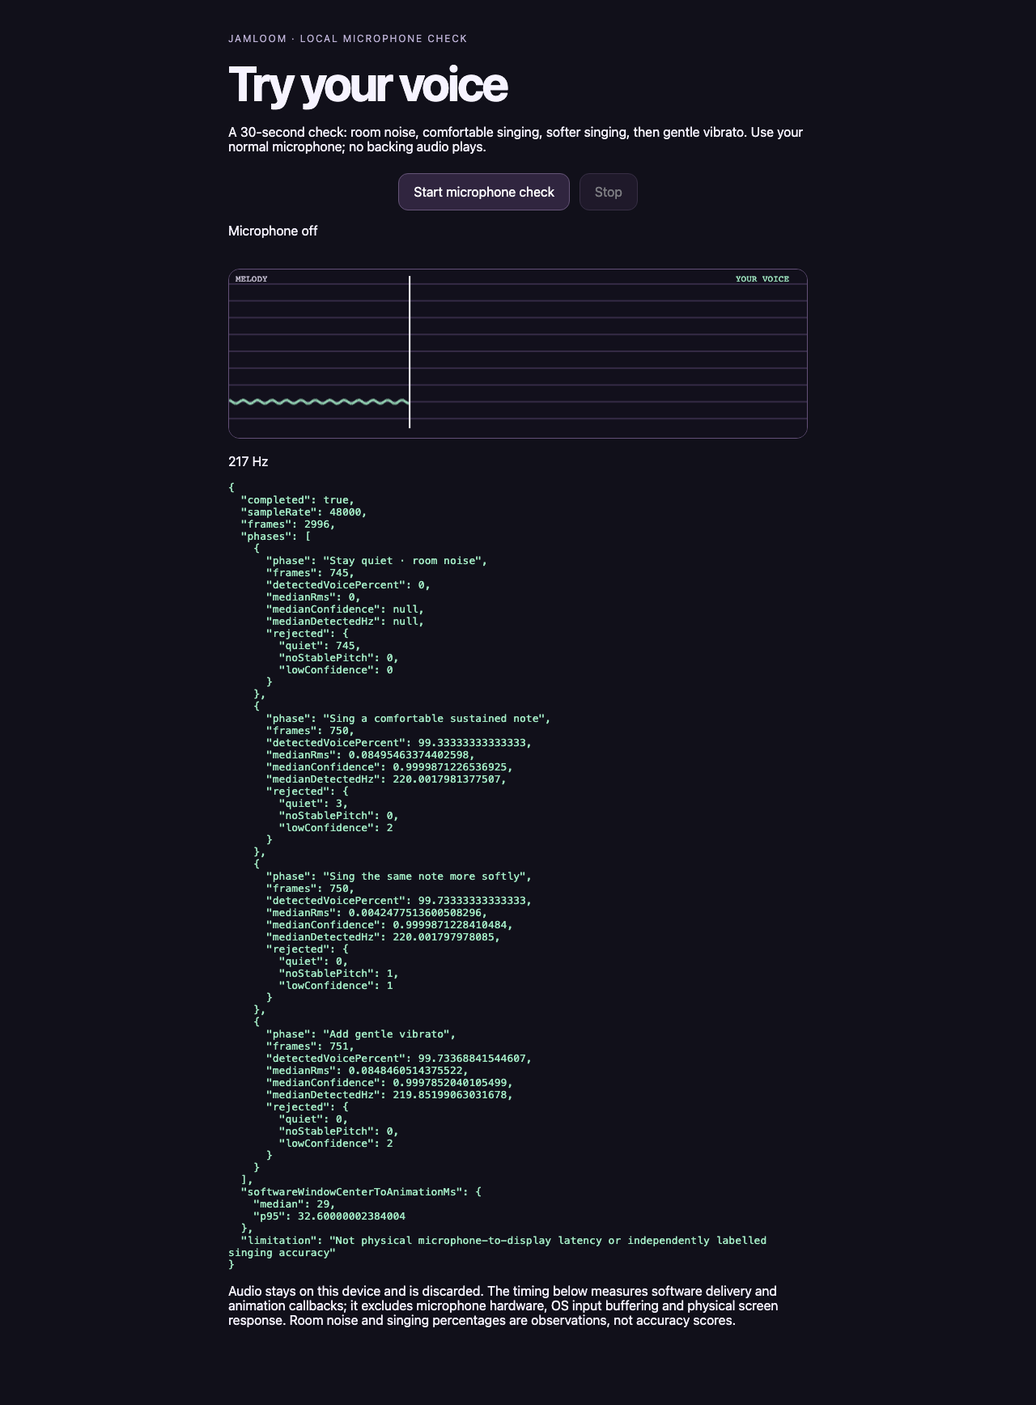
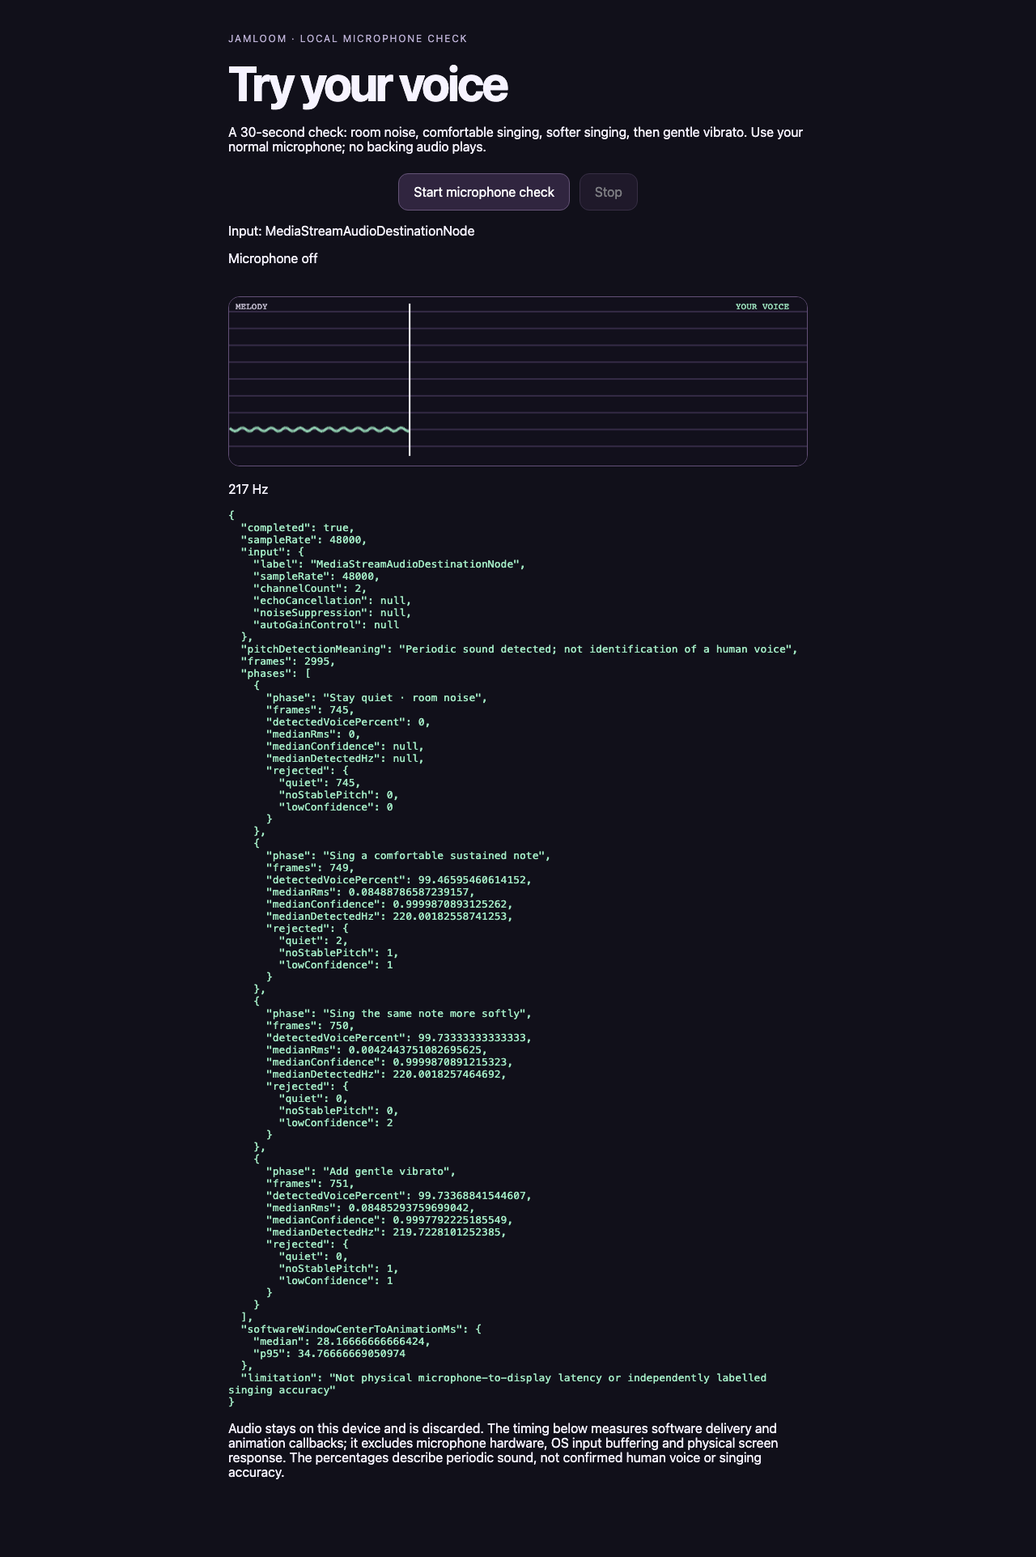
Record musical quality feedback and clarify microphone diagnostics

Changed region(s): [[0.2188, 0.0, 0.7812, 0.9643], [0.4688, 0.3422, 0.5, 0.3733]]

diff --git a/scripts/fixtures/singing-mic-check.js b/scripts/fixtures/singing-mic-check.js
@@ -3,7 +3,7 @@ import {drawSingingChart} from './singing-chart.js';
 const $=id=>document.getElementById(id),phases=['Stay quiet · room noise','Sing a comfortable sustained note','Sing the same note more softly','Add gentle vibrato'];
 let context,run=null,token=0,raf=0;
 const percentile=(values,p)=>values.length?[...values].sort((a,b)=>a-b)[Math.min(values.length-1,Math.floor(values.length*p))]:null;
-function stop(){token++;const old=run;run=null;cancelAnimationFrame(raf);if(old){old.stream.getTracks().forEach(t=>t.stop());old.input.disconnect();old.capture.port.postMessage('stop');old.capture.port.close();old.capture.disconnect();old.mute.disconnect();const r={completed:old.elapsed>=30,sampleRate:context.sampleRate,frames:old.frames,phases:phases.map((phase,i)=>({phase,frames:old.rows[i].length,detectedVoicePercent:old.rows[i].length?100*old.rows[i].filter(x=>x.valid).length/old.rows[i].length:null,medianRms:percentile(old.rows[i].map(x=>x.rms),.5),medianConfidence:percentile(old.rows[i].filter(x=>x.confidence!==null).map(x=>x.confidence),.5),medianDetectedHz:percentile(old.rows[i].filter(x=>x.valid).map(x=>x.hz),.5),rejected:{quiet:old.rows[i].filter(x=>!x.valid&&x.rms<.003).length,noStablePitch:old.rows[i].filter(x=>!x.valid&&x.rms>=.003&&x.confidence===null).length,lowConfidence:old.rows[i].filter(x=>!x.valid&&x.confidence!==null).length}})),softwareWindowCenterToAnimationMs:{median:percentile(old.delays,.5),p95:percentile(old.delays,.95)},limitation:'Not physical microphone-to-display latency or independently labelled singing accuracy'};$('result').textContent=JSON.stringify(r,null,2);window.jamloomMicCheckResult=r;}if(context?.state==='running')void context.suspend();$('start').disabled=false;$('stop').disabled=true;$('phase').textContent='Microphone off';}
+function stop(){token++;const old=run;run=null;cancelAnimationFrame(raf);if(old){old.stream.getTracks().forEach(t=>t.stop());old.input.disconnect();old.capture.port.postMessage('stop');old.capture.port.close();old.capture.disconnect();old.mute.disconnect();const r={completed:old.elapsed>=30,sampleRate:context.sampleRate,input:old.inputInfo,pitchDetectionMeaning:'Periodic sound detected; not identification of a human voice',frames:old.frames,phases:phases.map((phase,i)=>({phase,frames:old.rows[i].length,detectedVoicePercent:old.rows[i].length?100*old.rows[i].filter(x=>x.valid).length/old.rows[i].length:null,medianRms:percentile(old.rows[i].map(x=>x.rms),.5),medianConfidence:percentile(old.rows[i].filter(x=>x.confidence!==null).map(x=>x.confidence),.5),medianDetectedHz:percentile(old.rows[i].filter(x=>x.valid).map(x=>x.hz),.5),rejected:{quiet:old.rows[i].filter(x=>!x.valid&&x.rms<.003).length,noStablePitch:old.rows[i].filter(x=>!x.valid&&x.rms>=.003&&x.confidence===null).length,lowConfidence:old.rows[i].filter(x=>!x.valid&&x.confidence!==null).length}})),softwareWindowCenterToAnimationMs:{median:percentile(old.delays,.5),p95:percentile(old.delays,.95)},limitation:'Not physical microphone-to-display latency or independently labelled singing accuracy'};$('result').textContent=JSON.stringify(r,null,2);window.jamloomMicCheckResult=r;}if(context?.state==='running')void context.suspend();$('start').disabled=false;$('stop').disabled=true;$('phase').textContent='Microphone off';}
 function draw(){const r=run;if(!r)return;r.elapsed=context.currentTime-r.began;const phase=Math.min(3,Math.floor(r.elapsed/7.5));$('phase').textContent=phases[phase]+' · '+Math.max(0,Math.ceil(30-r.elapsed))+'s';if(r.pending){r.delays.push(r.pending.age+performance.now()-r.pending.at);r.pending=null;}$('pitch').textContent=r.pitch?Math.round(r.pitch.frequency)+' Hz':'Listening for a clear note';drawSingingChart($('live-chart'),[],r.elapsed,r.trace,57);if(r.elapsed>=30)stop();else raf=requestAnimationFrame(draw);}
 $('stop').onclick=stop;
 $('start').onclick=async()=>{
@@ -13,7 +13,8 @@ $('start').onclick=async()=>{
   if(attempt!==token){stream.getTracks().forEach(t=>t.stop());return;}
   await context.audioWorklet.addModule('singing-capture-worklet.js');if(attempt!==token){stream.getTracks().forEach(t=>t.stop());return;}
   const capture=new AudioWorkletNode(context,'jamloom-singing-capture'),input=context.createMediaStreamSource(stream),mute=context.createGain();mute.gain.value=0;input.connect(capture);capture.connect(mute);mute.connect(context.destination);
-  const r=run={stream,capture,input,mute,began:context.currentTime,elapsed:0,frames:0,rows:[[],[],[],[]],trace:[],delays:[],pending:null,pitch:null};
+  const track=stream.getAudioTracks()[0],settings=track.getSettings();const inputInfo={label:track.label,sampleRate:settings.sampleRate??null,channelCount:settings.channelCount??null,echoCancellation:settings.echoCancellation??null,noiseSuppression:settings.noiseSuppression??null,autoGainControl:settings.autoGainControl??null};$('input').textContent='Input: '+(track.label||'Browser-selected microphone');
+  const r=run={stream,capture,input,mute,inputInfo,began:context.currentTime,elapsed:0,frames:0,rows:[[],[],[],[]],trace:[],delays:[],pending:null,pitch:null};
   capture.port.onmessage=({data})=>{if(run!==r)return;try{const at=context.currentTime-r.began;if(at<0||at>30)return;const started=performance.now(),received=context.currentTime,pitch=detectPitch(data.samples,data.rate),valid=isSingingPitch(pitch);r.frames++;r.rows[Math.min(3,Math.floor(at/7.5))].push({valid,rms:Math.sqrt(data.samples.reduce((s,n)=>s+n*n,0)/data.samples.length),confidence:pitch?.confidence??null,hz:pitch?.frequency??null});r.pitch=valid?pitch:null;r.pending={at:started,age:1000*(received-(data.frame-data.samples.length/2)/data.rate)};r.trace.push({at,note:valid?69+12*Math.log2(pitch.frequency/440):null,good:valid});if(r.trace.length>1200)r.trace.splice(0,600);}finally{if(run===r)capture.port.postMessage('ack');}};
   capture.onprocessorerror=()=>{stop();$('phase').textContent='Microphone analysis stopped. Try again.';};stream.getTracks().forEach(t=>t.addEventListener('ended',()=>{if(run===r)stop();},{once:true}));$('stop').disabled=false;draw();
  }catch(error){stream?.getTracks().forEach(t=>t.stop());if(attempt===token){stop();$('phase').textContent=error.name==='NotAllowedError'?'Allow microphone access to run this check.':error.message;}}

diff --git a/scripts/fixtures/singing-mic-check.html b/scripts/fixtures/singing-mic-check.html
@@ -1,1 +1,1 @@
-<!doctype html><html lang="en"><head><meta charset="utf-8"><meta name="viewport" content="width=device-width,initial-scale=1"><title>Microphone check · Jamloom</title><link rel="stylesheet" href="singing.css"><script type="module" src="mic-check.js"></script></head><body><main><p class="eyebrow">Jamloom · Local microphone check</p><h1>Try your voice</h1><p>A 30-second check: room noise, comfortable singing, softer singing, then gentle vibrato. Use your normal microphone; no backing audio plays.</p><div class="actions"><button id="start">Start microphone check</button><button id="stop" disabled>Stop</button></div><p id="phase" role="status">Microphone off</p><canvas id="live-chart" aria-label="Live pitch trace"></canvas><p id="pitch">—</p><pre id="result" style="white-space:pre-wrap"></pre><p>Audio stays on this device and is discarded. The timing below measures software delivery and animation callbacks; it excludes microphone hardware, OS input buffering and physical screen response. Room noise and singing percentages are observations, not accuracy scores.</p></main></body></html>
+<!doctype html><html lang="en"><head><meta charset="utf-8"><meta name="viewport" content="width=device-width,initial-scale=1"><title>Microphone check · Jamloom</title><link rel="stylesheet" href="singing.css"><script type="module" src="mic-check.js"></script></head><body><main><p class="eyebrow">Jamloom · Local microphone check</p><h1>Try your voice</h1><p>A 30-second check: room noise, comfortable singing, softer singing, then gentle vibrato. Use your normal microphone; no backing audio plays.</p><div class="actions"><button id="start">Start microphone check</button><button id="stop" disabled>Stop</button></div><p id="input">Input is shown after microphone permission.</p><p id="phase" role="status">Microphone off</p><canvas id="live-chart" aria-label="Live pitch trace"></canvas><p id="pitch">—</p><pre id="result" style="white-space:pre-wrap"></pre><p>Audio stays on this device and is discarded. The timing below measures software delivery and animation callbacks; it excludes microphone hardware, OS input buffering and physical screen response. The percentages describe periodic sound, not confirmed human voice or singing accuracy.</p></main></body></html>

diff --git a/docs/CONTINUITY_FOLLOWTHROUGH.md b/docs/CONTINUITY_FOLLOWTHROUGH.md
@@ -54,3 +54,26 @@ ACE-Step 1.5 and the MIT singing detector are retained. Re-ran the existing benc
 The approved Tency enquiry was already sent. No supplier reply or assets are available in this workspace; no mailbox connector is available to verify the inbox. This is not a claim that the supplier has not replied. [Exact recordings, permissions and delivery requirements](SINGING_POPULAR_SONGS.md). The four-minute original rehearsal already exercises streaming, lyric timing, phrase grading, seek/retry and stop; the first popular lesson must use the actual authorized recording and melody data once supplied.
 
 [Release acceptance checklist](RELEASE_ACCEPTANCE.md) separates implemented features, listening, hardware, hosted and publication gates. The owner still holds publication. No paid license, App Store submission or public AI DJ activation occurred.
+
+## Owner review and next musical target — 2026-10-26
+
+**PARTIAL improvement; professional-quality target not accepted.** The owner says the four handoffs are better but still below real DJ performance, and wants AI to use coordinated musical control to exceed that benchmark. This is feedback on the retained before/after set, not a rating of the fresh twelve-track qualification. [Exact feedback](evidence/continuity-followthrough-20261026/owner-continuity-feedback.json).
+
+The present capacity result proves reliable delivery, not the requested musical result. `AIDJPlayer` has two stereo decks; the flow study generates each source independently from recipe/seed inputs. The planner can align measured beats, choose overlap, exchange bass and avoid quiet sections. It cannot independently continue the outgoing drums while replacing its bass or write the incoming melody to answer an existing motif.
+
+The next creative experiment should therefore compare one coherent 3–5-minute original performance against the accepted overlap baseline:
+
+1. Plan shared tempo, tonal center, groove, motif and phrase-level energy before generating the next section. Define which musical idea continues and which changes. A shared caption or BPM alone is not evidence of coherent harmony/arrangement.
+2. Test separate control of drums, bass, musical parts and brief vocals on original Jamloom material. Reuse existing mixer/recording timing and original stem utilities. Existing `separate_singer.py` is a research tool; check its precise checkpoint terms and separation bleed before any runtime adoption. Native original stems are preferable when available. Do not add another audio clock or assume the two-deck player already supports independent stems.
+3. Coordinate phrase-aligned percussion handoffs, complementary bass entries, restrained vocal answers and purposeful build/drop/release. Keep deliberate no-action periods; avoid simultaneous clashing basslines, overlapping hooks and effects added only to animate the deck.
+4. Drive the deck display from those actual scheduled audio actions. Compare continuous groove, musical development, vocal spacing and artifacts by listening; retain peak, gap, drift and delivery checks as supporting evidence.
+
+This is the next experiment specification, not an implemented stem-performance engine or a promise to outperform professional DJs. Existing ACE-Step, the audited analysis modules and compatible source utilities should be reused where their measured outputs help. No new GPU run, learned model, copied reference material or production activation is authorized by the consumed permit.
+
+## Refined owner microphone result — 2026-10-26
+
+The owner reports no audible background sound. The refined check nevertheless detects periodic pitch in 42.15% of the quiet phase (median detected frequency 180.53 Hz), 65.2% of normal singing (181.80 Hz), 51.47% of soft singing and 52.33% of vibrato. Software timing remains about 34.53 ms p95. [Exact numerical result](evidence/continuity-followthrough-20261026/owner-microphone-followup.json).
+
+The normal/quiet median RMS ratio is about 5.6 dB, and soft/quiet about 2.6 dB. These phase medians are not source-separated SNR. No audio exists to identify the quiet-phase source. The detector measures periodicity, not human voice identity, so neither confidence nor pitch alone establishes singing. Filtering out approximately 180 Hz or raising a fixed floor would also suppress the owner's singing; no such change was made.
+
+A read-only system check identifies the MacBook Air Microphone as the OS default. This does not establish the browser's selected input. The local diagnostic now displays the actual track label and includes applied sample rate/channel/processing settings, omitting persistent device/group identifiers. It also explicitly labels the percentages as periodic sound, not verified human voice. No additional audio recording, automatic microphone start or capture upload was introduced. Input/capture behavior and real-room detection remain unresolved; physical end-to-end latency remains NOT RUN.

diff --git a/TODO.md b/TODO.md
@@ -2,12 +2,14 @@
 
 **PARTIAL overall; local implementation and scoped checks PASS.** [Current report](docs/CONTINUITY_FOLLOWTHROUGH.md), [release acceptance](docs/RELEASE_ACCEPTANCE.md). Publication remains held.
 
-- [x] Compare twelve identical originals through old/current actual mixers; remove the 2.4-second internal quiet stretch through prepared instrumental handoffs and reduce the track 6 → 7 level jump from +10.87 to -1.11 dB. Short handoff dips and listening acceptance remain open.
+- [x] Compare twelve identical originals through old/current actual mixers; remove the 2.4-second internal quiet stretch through prepared instrumental handoffs and reduce the track 6 → 7 level jump from +10.87 to -1.11 dB. Owner confirms the handoffs are better but still below professional DJ performance; musical acceptance remains open.
 - [x] Verify 63 isolated planner/session/credit/recording checks, TypeScript and 54 Python archive/worker/controller checks; transfer the complete 462.36-second recording through private R2, verify identical bytes/ranges/denial and delete the test object.
 - [x] Re-run pinned DJKado pitch/tempo/waveform benchmarks; retain the existing ACE-Step integration, MIT singing detector and one mixer clock. No new dependency or copyleft module copied.
 - [x] Provide a local real-microphone diagnostic and preserve the owner's numerical result. Software response is fast, but normal-voice misses and quiet-phase detections remain PARTIAL; refined signal diagnostics are ready.
 - [x] Pass the capped fresh continuity-flow qualification: twelve new sources, exactly two initially buffered, 446.82-second playback, full R2 round-trip, observed $0.23665 and independently confirmed zero rentals. One bounded listener run; musical acceptance and longer/multi-user capacity remain open.
-- [ ] Resolve actual microphone findings and measure physical latency; controlled browser PCM is not hardware qualification.
+- [x] Preserve refined owner microphone data and DJ feedback. Check the OS default input; add actual browser input/processing details to the local diagnostic without recording audio or device identifiers.
+- [ ] Resolve unexplained periodic pitch during the owner's reported quiet phase; normal/soft/vibrato detection remains PARTIAL and physical latency is NOT RUN.
+- [ ] Build and qualify one coherent original performance with shared musical context and independently controlled parts, reusing existing compatible tools and the same audio clock. The current stereo overlap engine is not professional-quality acceptance.
 - [ ] Receive supplier terms/assets for popular songs and implement the first authorized lesson; no mailbox reply can be inferred from the workspace.
 - [x] Consolidate the release acceptance ledger; preserve the owner's local-only publication decision.
 

diff --git a/docs/progress.md b/docs/progress.md
@@ -2,12 +2,14 @@
 
 **PARTIAL overall; local implementation and scoped checks PASS.** [Current report](CONTINUITY_FOLLOWTHROUGH.md), [release acceptance](RELEASE_ACCEPTANCE.md). Publication remains held.
 
-- [x] Compare twelve identical originals through old/current actual mixers; remove the 2.4-second internal quiet stretch through prepared instrumental handoffs and reduce the track 6 → 7 level jump from +10.87 to -1.11 dB. Short handoff dips and listening acceptance remain open.
+- [x] Compare twelve identical originals through old/current actual mixers; remove the 2.4-second internal quiet stretch through prepared instrumental handoffs and reduce the track 6 → 7 level jump from +10.87 to -1.11 dB. Owner confirms the handoffs are better but still below professional DJ performance; musical acceptance remains open.
 - [x] Verify 63 isolated planner/session/credit/recording checks, TypeScript and 54 Python archive/worker/controller checks; transfer the complete 462.36-second recording through private R2, verify identical bytes/ranges/denial and delete the test object.
 - [x] Re-run pinned DJKado pitch/tempo/waveform benchmarks; retain the existing ACE-Step integration, MIT singing detector and one mixer clock. No new dependency or copyleft module copied.
 - [x] Provide a local real-microphone diagnostic and preserve the owner's numerical result. Software response is fast, but normal-voice misses and quiet-phase detections remain PARTIAL; refined signal diagnostics are ready.
 - [x] Pass the capped fresh continuity-flow qualification: twelve new sources, exactly two initially buffered, 446.82-second playback, full R2 round-trip, observed $0.23665 and independently confirmed zero rentals. One bounded listener run; musical acceptance and longer/multi-user capacity remain open.
-- [ ] Resolve actual microphone findings and measure physical latency; controlled browser PCM is not hardware qualification.
+- [x] Preserve refined owner microphone data and DJ feedback. Check the OS default input; add actual browser input/processing details to the local diagnostic without recording audio or device identifiers.
+- [ ] Resolve unexplained periodic pitch during the owner's reported quiet phase; normal/soft/vibrato detection remains PARTIAL and physical latency is NOT RUN.
+- [ ] Build and qualify one coherent original performance with shared musical context and independently controlled parts, reusing existing compatible tools and the same audio clock. The current stereo overlap engine is not professional-quality acceptance.
 - [ ] Receive supplier terms/assets for popular songs and implement the first authorized lesson; no mailbox reply can be inferred from the workspace.
 - [x] Consolidate the release acceptance ledger; preserve the owner's local-only publication decision.
 

diff --git a/docs/RELEASE_ACCEPTANCE.md b/docs/RELEASE_ACCEPTANCE.md
@@ -6,13 +6,13 @@ This ledger supersedes older completion summaries for release decisions. PASS ap
 |---|---|---|
 | Eight original singing songs, warm-ups, sections, complete highlighted lyrics, unlimited practice | PASS local | [Course completion](SINGING_COMPLETION.md); original owner flow acceptance |
 | Quiet-input detector on 40 recorded voices | PASS benchmark / PARTIAL generalization | [Audio follow-through](LOCAL_AUDIO_FOLLOWTHROUGH.md); 86.76% reference-frame match, not an independent holdout |
-| Real microphone in the owner's room | PARTIAL | [Current diagnostic](CONTINUITY_FOLLOWTHROUGH.md); detection misses and quiet-phase activity need explanation |
+| Real microphone in the owner's room | PARTIAL | [Current diagnostic](CONTINUITY_FOLLOWTHROUGH.md); owner reports no background sound, yet 42.15% of quiet-phase frames contain detected periodic pitch; source remains unexplained |
 | Physical microphone-to-display latency | NOT RUN | High-frame-rate audio/video measurement; callback timing excludes hardware/OS/display |
 | Four-minute recorded-backing lesson mechanics | PASS local rehearsal | Existing original backing, complete playback and seek/retry checks; not a supplied popular song |
 | Six requested popular songs | BLOCKED | Supplier terms, exact backing/lyrics/lead-melody assets and acquisition authorization needed; enquiry sent |
 | Existing iPhone Sing lifecycle and playback | PASS scoped | [Physical evidence](LOCAL_AUDIO_FOLLOWTHROUGH.md); signed 0.10.1 build 23 installed, no App Store upload |
 | iPad physical singing, Bluetooth route changes, venue equipment | NOT RUN | Test actual available equipment; do not infer from simulator/browser checks |
-| DJ revised handoffs and full-set musical acceptance | PARTIAL | Same-source capture removes the long quiet gap and reduces one large level jump; short dips and owner review remain |
+| DJ revised handoffs and full-set musical acceptance | PARTIAL | Same-source capture removes the long quiet gap and reduces one large level jump; owner confirms improvement but still rejects professional quality |
 | Fresh delivery with two-track startup | PASS bounded one-listener run | [Result](dj-continuity-flow.md): twelve fresh tracks, 446.82 seconds, no delivery gap; indefinite and multi-user capacity remain NOT RUN |
 | Stop, credits, refunds, retry, access boundaries | PASS isolated tests | 63 scoped checks in current follow-through; no live purchase |
 | Complete recording in private R2 | PASS provider | Full retained 462.36-second and fresh 446.82-second mixes, identical multipart bytes, range playback, unsigned denial and cleanup |

diff --git a/docs/OWNER_HANDBOOK.md b/docs/OWNER_HANDBOOK.md
@@ -1,8 +1,8 @@
 ## Current continuity and microphone checks — 2026-10-26
 
-[Compare the four handoffs and full sets](http://localhost:8766/continuity/review/). The same originals are used in each version; completion is near 20 seconds in each excerpt. The revised mixer avoids late instrumental collapses when the next track is ready and uses sustained body level for attenuation. Technical gaps improved; professional musical continuity is not yet accepted.
+[Compare the four handoffs and full sets](http://localhost:8766/continuity/review/). The same originals are used in each version; completion is near 20 seconds in each excerpt. The revised mixer avoids late instrumental collapses when the next track is ready and uses sustained body level for attenuation. The owner confirms improvement but still considers it below professional DJ performance. Next musical work targets a coherent arrangement and independent musical parts, not a completed professional-quality claim.
 
-[Run the 30-second microphone check](http://localhost:8767/mic-check.html). Stay quiet first, then hold a comfortable note, soften it and add gentle vibrato. The result contains only numeric observations; no audio is saved. The first physical result needs investigation, despite fast software response. [Current evidence and limits](CONTINUITY_FOLLOWTHROUGH.md); [release checklist](RELEASE_ACCEPTANCE.md).
+[Run the 30-second microphone check](http://localhost:8767/mic-check.html). Stay quiet first, then hold a comfortable note, soften it and add gentle vibrato. The result contains only numeric observations; no audio is saved. Both physical results need investigation, despite fast software response. The owner reports no background sound; the latest quiet phase still shows periodic pitch near the singing register. The diagnostic now displays its actual input label and applied processing settings. [Current evidence and limits](CONTINUITY_FOLLOWTHROUGH.md); [release checklist](RELEASE_ACCEPTANCE.md).
 
 The fresh-generation test passed with twelve new tracks, exactly two initially buffered, a 446.82-second complete mix and verified R2 save/read/delete. [Hear the fresh set](http://localhost:8766/fresh-flow/review/). The GPU is deleted; observed cost was about $0.24. Musical acceptance and longer/multi-user capacity remain open. Website publication remains held. Tency's enquiry was sent; supplier reply status cannot be checked from this workspace. Keep all source audio, model files and signed phone evidence.
 
